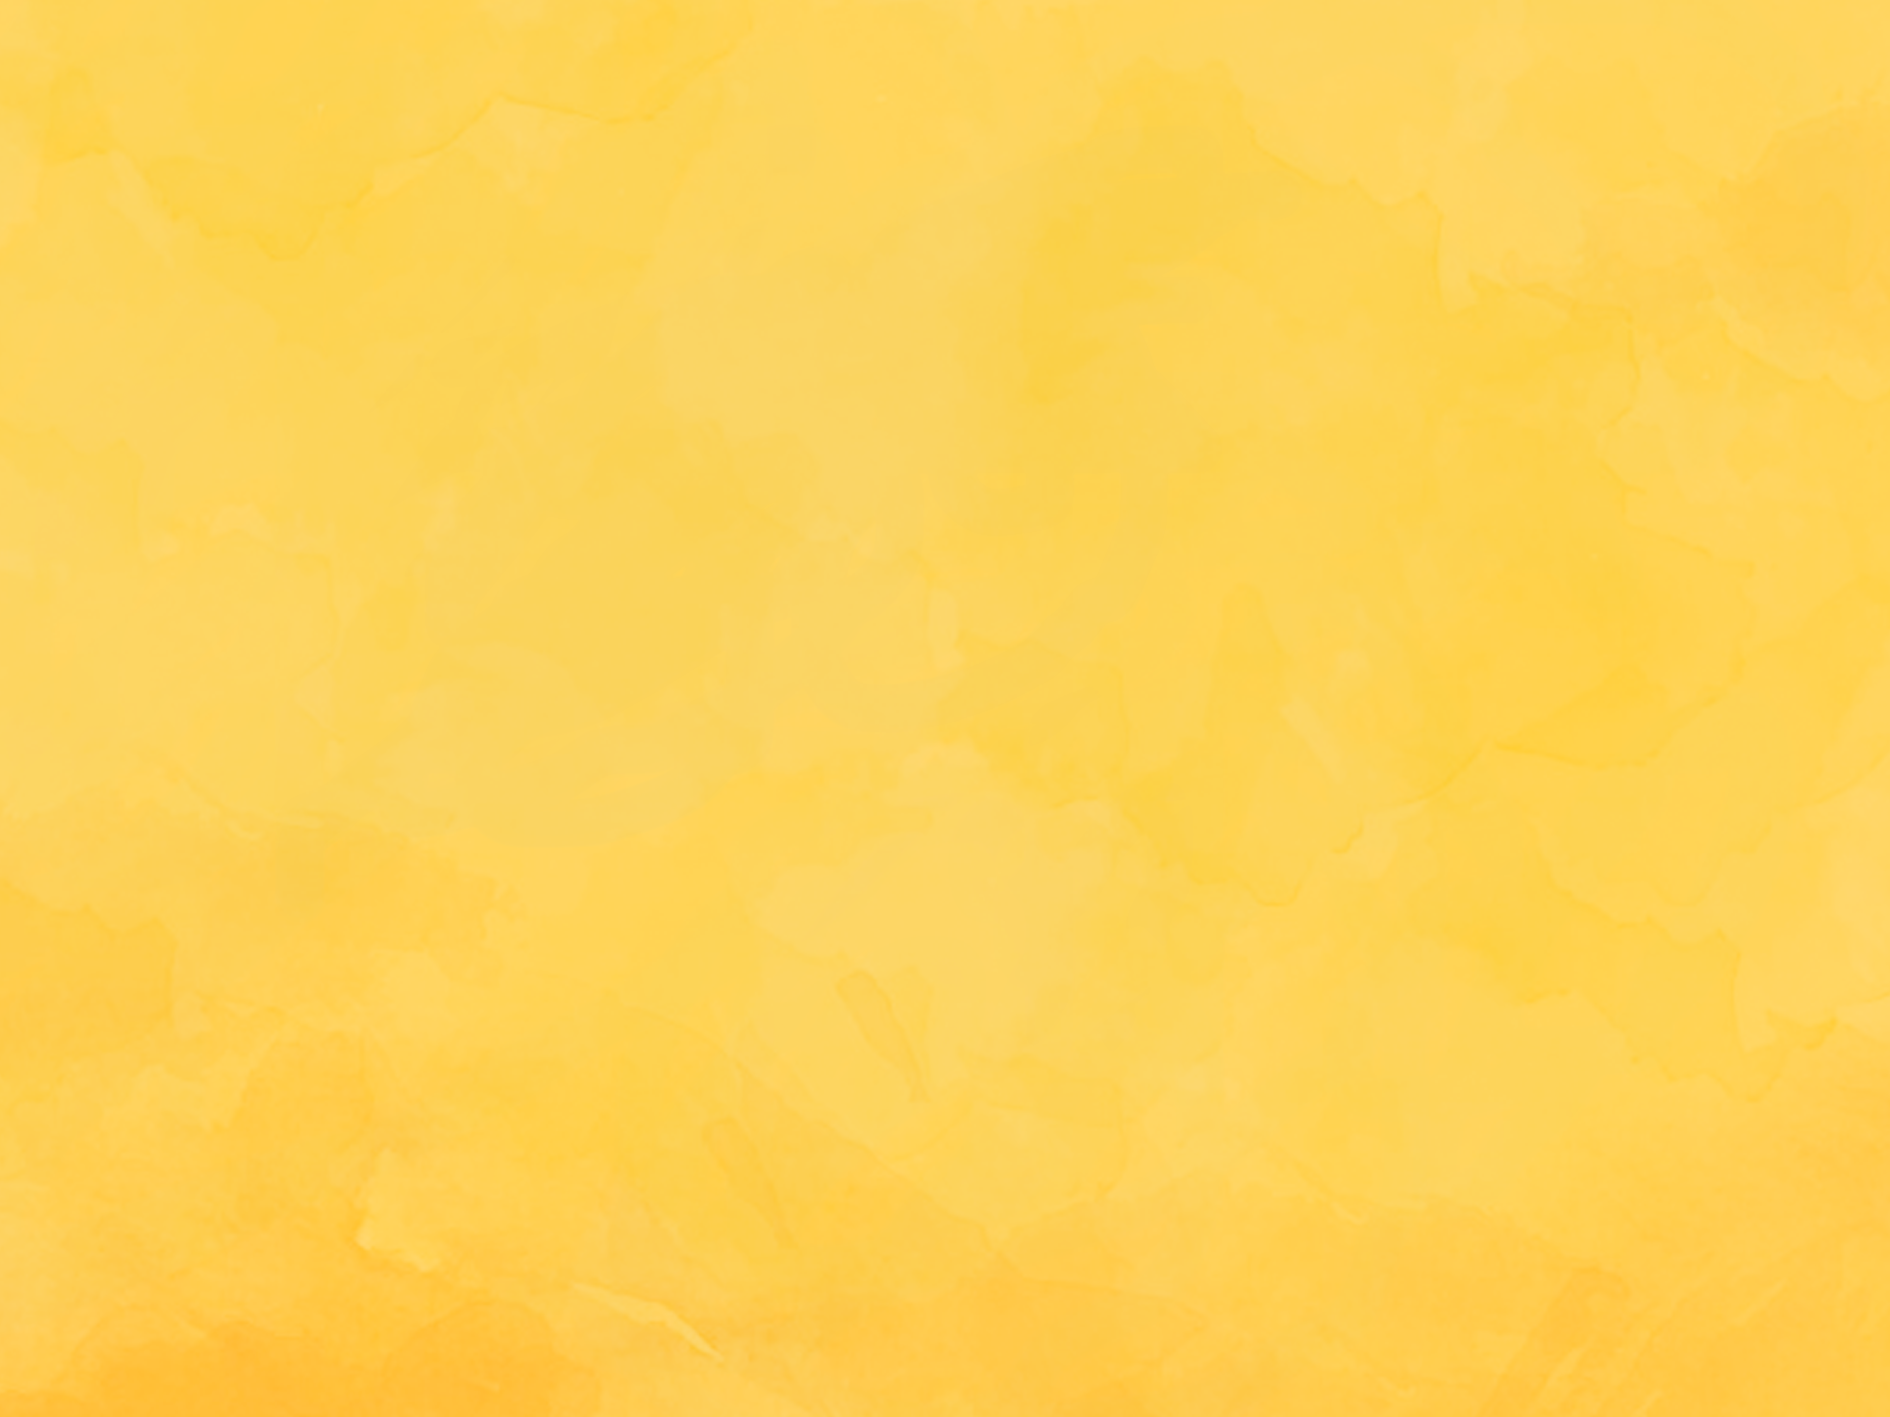
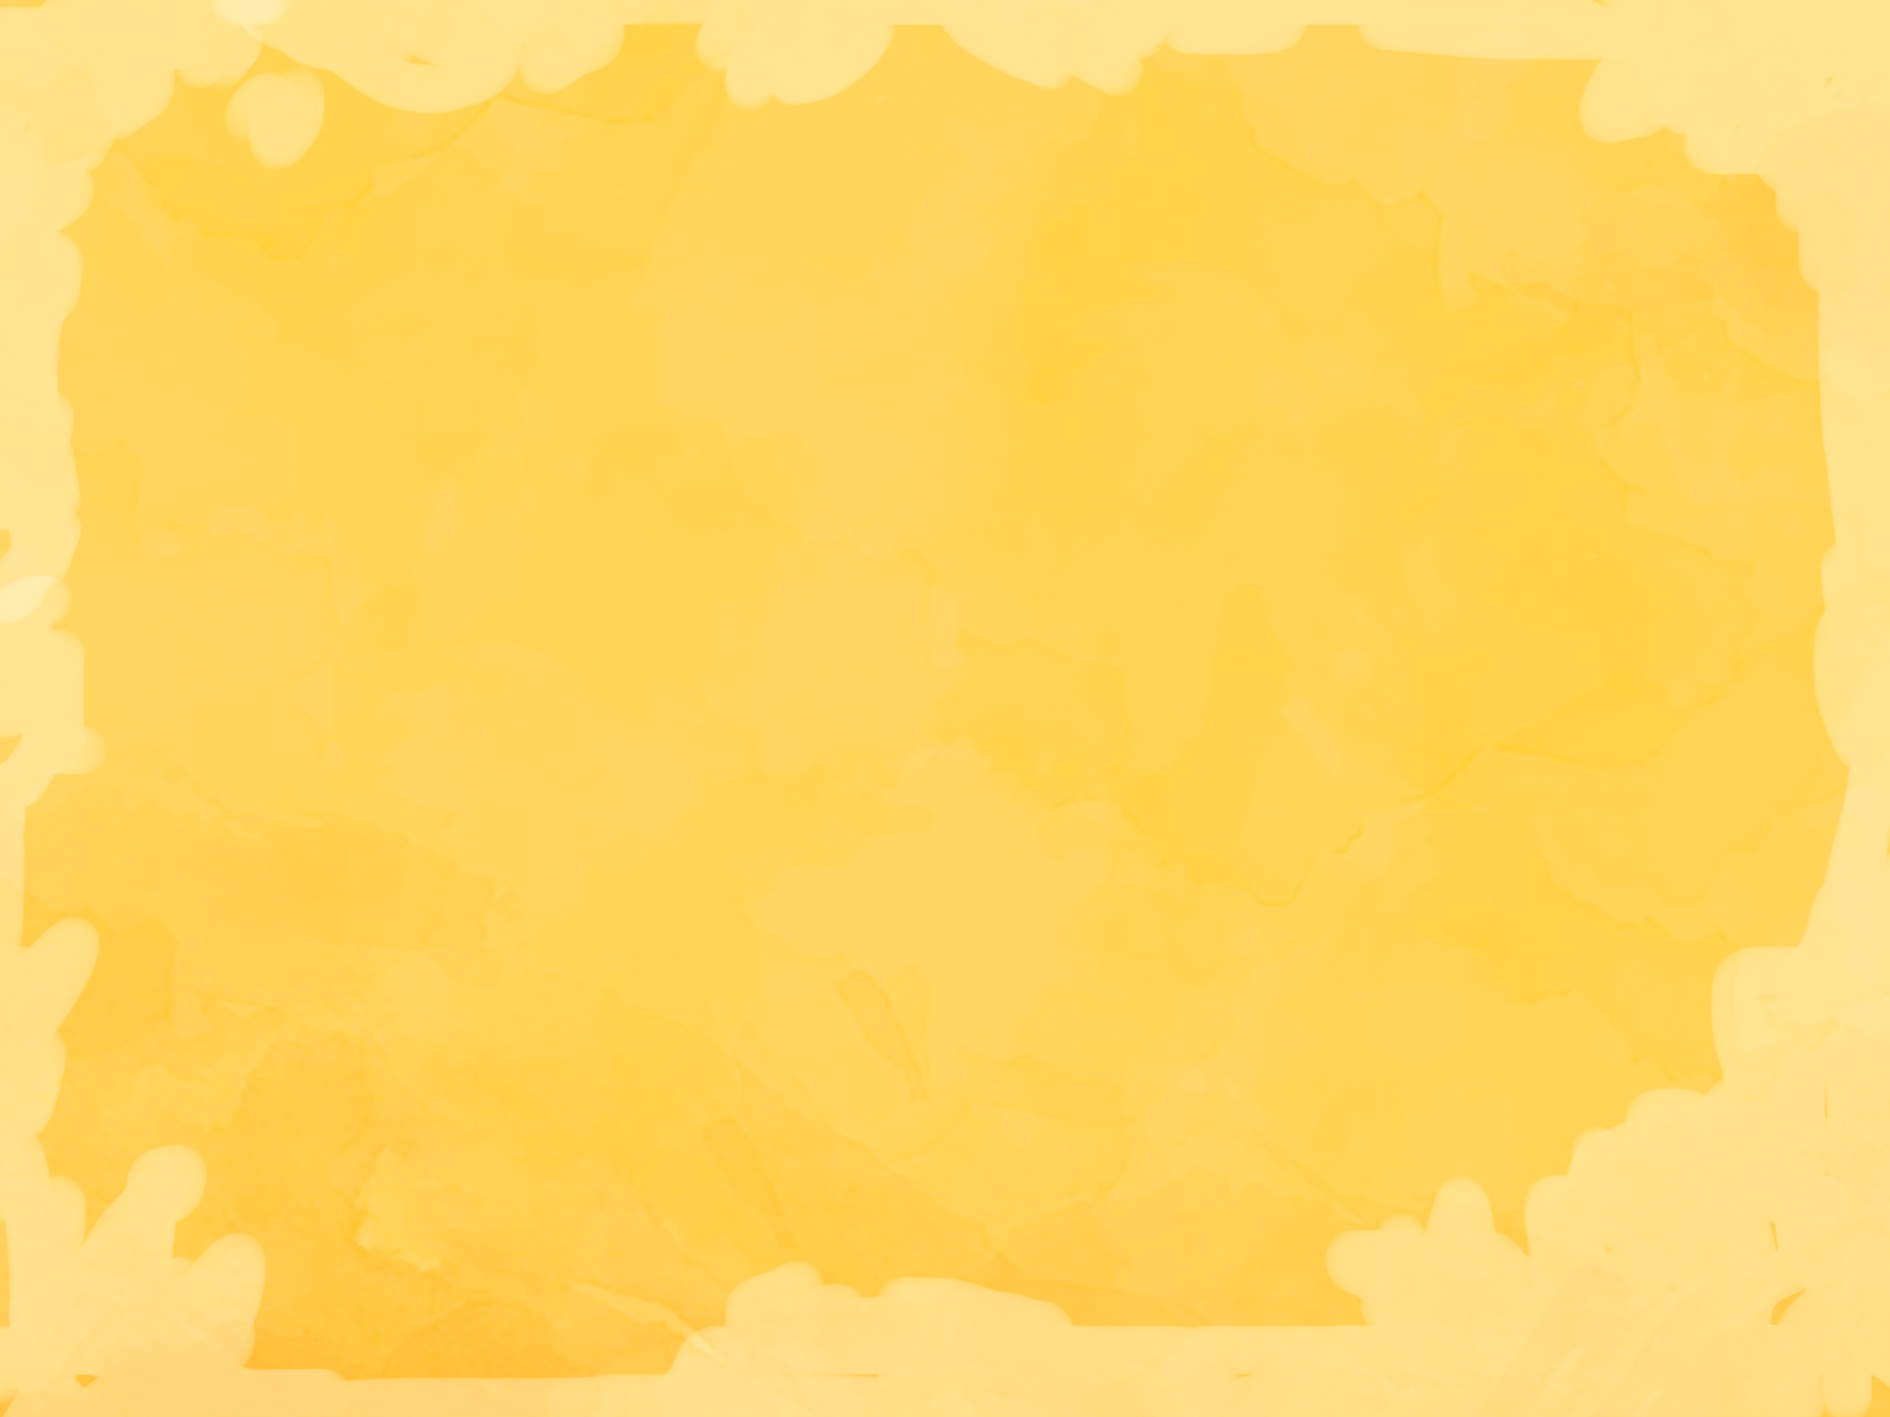
updated color palette

Changed region(s): [[0.0, 0.0, 1.0, 1.0]]

diff --git a/src/Contexts/CharacterContext.js b/src/Contexts/CharacterContext.js
@@ -1,8 +1,10 @@
 import React, { createContext, Component } from 'react';
-import foxBubble from 'Assets/fox-blowing-bubbles.gif';
+// import foxBubble from 'Assets/fox-blowing-bubbles.gif';
+import foxBubble from 'Assets/flipbook-final.gif';
 import foxIdle from 'Assets/fox-idle.gif';
 import { withRouter } from "react-router-dom";
-import bear from 'Assets/bear.png';
+// import bear from 'Assets/bear.png';
+import bear from 'Assets/bear2.png';
 
 
 export const CharacterContext = createContext();
@@ -12,34 +14,36 @@ const animations = {
     FOXENTRANCE: 'enter',
     BEARENTRANCE: 'bear enter',
     FOXBUBBLES: foxBubble,
-    FOXIDLE: foxIdle,
-    BEARBALLOONS: bear,
+    FOXPLANTGROWING: 'plant growing', 
+    FOXPLANT: foxIdle,
     FOXPHONE: 'fox phone',
-    BEARWAVE: bear
+    BEARWAVE: bear, 
+    BEARLEAF: bear, 
 }
 
 const pages = [
     {
         name: 'home', character: 'fox', bubbles: true, states: [
-            { animation: animations.FOXENTRANCE },
+            { animation: animations.FOXENTRANCE, duration: 300 },
             { animation: animations.FOXBUBBLES }
         ]
     },
     {
         name: 'projects', character: 'bear', states: [
-            { animation: animations.BEARENTRANCE },
+            { animation: animations.BEARENTRANCE, duration: 300 },
             { animation: animations.BEARWAVE }
         ]
     },
     {
         name: 'resume', character: 'fox', states: [
-            { animation: animations.FOXENTRANCE },
-            { animation: animations.FOXIDLE }]
+            { animation: animations.FOXENTRANCE, duration: 300 },
+            { animation: animations.FOXPLANT, duration: 400 },
+            { animation: animations.FOXPLANTGROWING, duration: 300 }]
     },
     {
         name: 'contact', character: 'bear', states: [
-            { animation: animations.BEARENTRANCE },
-            { animation: animations.BEARBALLOONS }]
+            { animation: animations.BEARENTRANCE, duration: 400 },
+            { animation: animations.BEARLEAF, duration: 300 }]
     }
 ]
 

diff --git a/src/Components/MenuDrawer.js b/src/Components/MenuDrawer.js
@@ -36,8 +36,9 @@ const useStyles = makeStyles(theme => ({
     },
     drawerPaper: {
         width: '100%',
-        backgroundColor: '#88C29F', 
-        opacity: '85%'
+        // backgroundColor: '#A62667',
+        backgroundColor: '#0A4261', 
+        opacity: '95%'
     },
     navBar: {
         display: 'flex',
@@ -77,11 +78,6 @@ function ResponsiveDrawer(props) {
                     <Typography variant='subtitle2' className={classes.navText}>home</Typography>
                 </NavLink>
                 <Divider style={{marginLeft:'40%', marginRight: '40%'}} variant="middle" />
-
-                {/* <NavLink exact className={classes.link} activeClassName='active-link' to="/about">
-                    <Typography variant='subtitle2' className={classes.navText}>about</Typography>
-                </NavLink>
-                <Divider style={{marginLeft:'40%', marginRight: '40%'}} variant="middle" /> */}
 
                 <NavLink exact className={classes.link} activeClassName='active-link' to="/projects">
                     <Typography variant='subtitle2' className={classes.navText}>projects</Typography>

diff --git a/src/Routes/Routes.js b/src/Routes/Routes.js
@@ -3,7 +3,6 @@ import { Route, Switch, Redirect } from "react-router-dom";
 import { Transition, TransitionGroup } from 'react-transition-group';
 import { play, exit } from 'Timelines/index.js'
 import HomePage from 'Routes/Home';
-import AboutPage from 'Routes/About';
 import ResumePage from 'Routes/Resume';
 import ContactPage from 'Routes/Contact';
 import ProjectsPage from 'Routes/Projects';
@@ -33,13 +32,6 @@ const Routes = (props) => {
                                         <HomePage />
                                     )}
                                 />
-                                {/* <Route
-                                    exact
-                                    path="/about"
-                                    render={props => (
-                                        <AboutPage />
-                                    )}
-                                /> */}
                                 <Route
                                     exact
                                     path="/projects"

diff --git a/src/Timelines/index.js b/src/Timelines/index.js
@@ -6,7 +6,7 @@ const getDefaultTimeline = (node, delay) => {
     const title = node.querySelector('h5');
 
     timeline
-        .from(character, { duration: 1.5, display: 'none', y: 200, autoAlpha: 0 })
+        .from(character, { duration: 1.5, display: 'none', y: 200, autoAlpha: 1 })
         .staggerFrom(title, 0.2, { autoAlpha: 0, x: 50, ease: Power1.easeOut }, 0.125);
 
     return timeline;
@@ -18,7 +18,7 @@ const getHomeTimeline = (node, delay) => {
     const character = node.querySelector('.characterEntrance');
 
     timeline
-        .from(character, { duration: 1.5, display: 'none', y: 200, autoAlpha: 0 })
+        .from(character, { duration: 1.5, display: 'none', y: 200, autoAlpha: 1 })
         .staggerFrom(name, 0.2, { autoAlpha: 0, x: 50, ease: Power1.easeOut }, 0.125);
 
     return timeline;

diff --git a/src/Components/NavBar.js b/src/Components/NavBar.js
@@ -60,9 +60,6 @@ class NavBar extends Component {
                         </NavLink>
                     </div>
                     <div className={classes.navLinks}>
-                        {/* <NavLink className={classes.link} activeClassName={classes.active} to="/about">
-                            <Typography variant="subtitle2" className={classes.navText}>about</Typography>
-                        </NavLink> */}
                         <NavLink exact className={classes.link} activeClassName={classes.active} to="/projects">
                             <Typography variant="subtitle2" className={classes.navText}>projects</Typography>
                         </NavLink>

diff --git a/src/Routes/Contact/index.js b/src/Routes/Contact/index.js
@@ -37,8 +37,8 @@ class ContactPage extends Component {
             <Typography className={classes.title} variant="h5">contact</Typography>
             <a className={classes.email} href={"mailto:avery.brown@mac.com"}><Typography variant="subtitle2">avery.brown@mac.com</Typography></a>
             <Character />
-            <Balloons /> 
-            <SpeakerIcon />
+            {/* <Balloons /> 
+            <SpeakerIcon /> */}
         </div>
     }
 }

diff --git a/src/Components/Character.js b/src/Components/Character.js
@@ -272,6 +272,7 @@ class Character extends Component {
         let showBubbles = this.context.checkBubbles();
         let characterStates = this.context.getCharacterStates()
         let animation = characterStates !== undefined ? characterStates[1].animation : undefined;
+        console.log(animation)
         let characterType = this.context.getCharacterType();
 
 

diff --git a/src/Components/SpeakerIcon.js b/src/Components/SpeakerIcon.js
@@ -38,7 +38,7 @@ class SpeakerIcon extends Component {
         return <img
             style={fox ? { right: '1.5%' } : { left: '1.5%' }}
             className={classes.speaker}
-            src={soundOn ? muteIcon : speakerIcon}
+            src={soundOn ? speakerIcon : muteIcon}
             alt='speaker' onClick={this.props.soundContext.switchSoundOn} />
     }
 }

diff --git a/src/App.css b/src/App.css
@@ -9,10 +9,9 @@
   /* color: white;  */
   /* background-color: #FFD976; */
   background-color: white;
-  background: url("Assets/background.png");
-  background-position:top;
-  background: cover; 
-  /* background-size:contain; */
+  background: url("Assets/background_copy.png");
+  background-position:center;
+  background-size: cover; 
 }
 
 .App-nav {

diff --git a/src/Routes/Resume/index.js b/src/Routes/Resume/index.js
@@ -221,8 +221,6 @@ class ResumePage extends Component {
                 </div>
             </div>
             <Character />
-            {/* <Balloons /> */}
-            {/* <SpeakerIcon /> */}
         </div>
     }
 }
